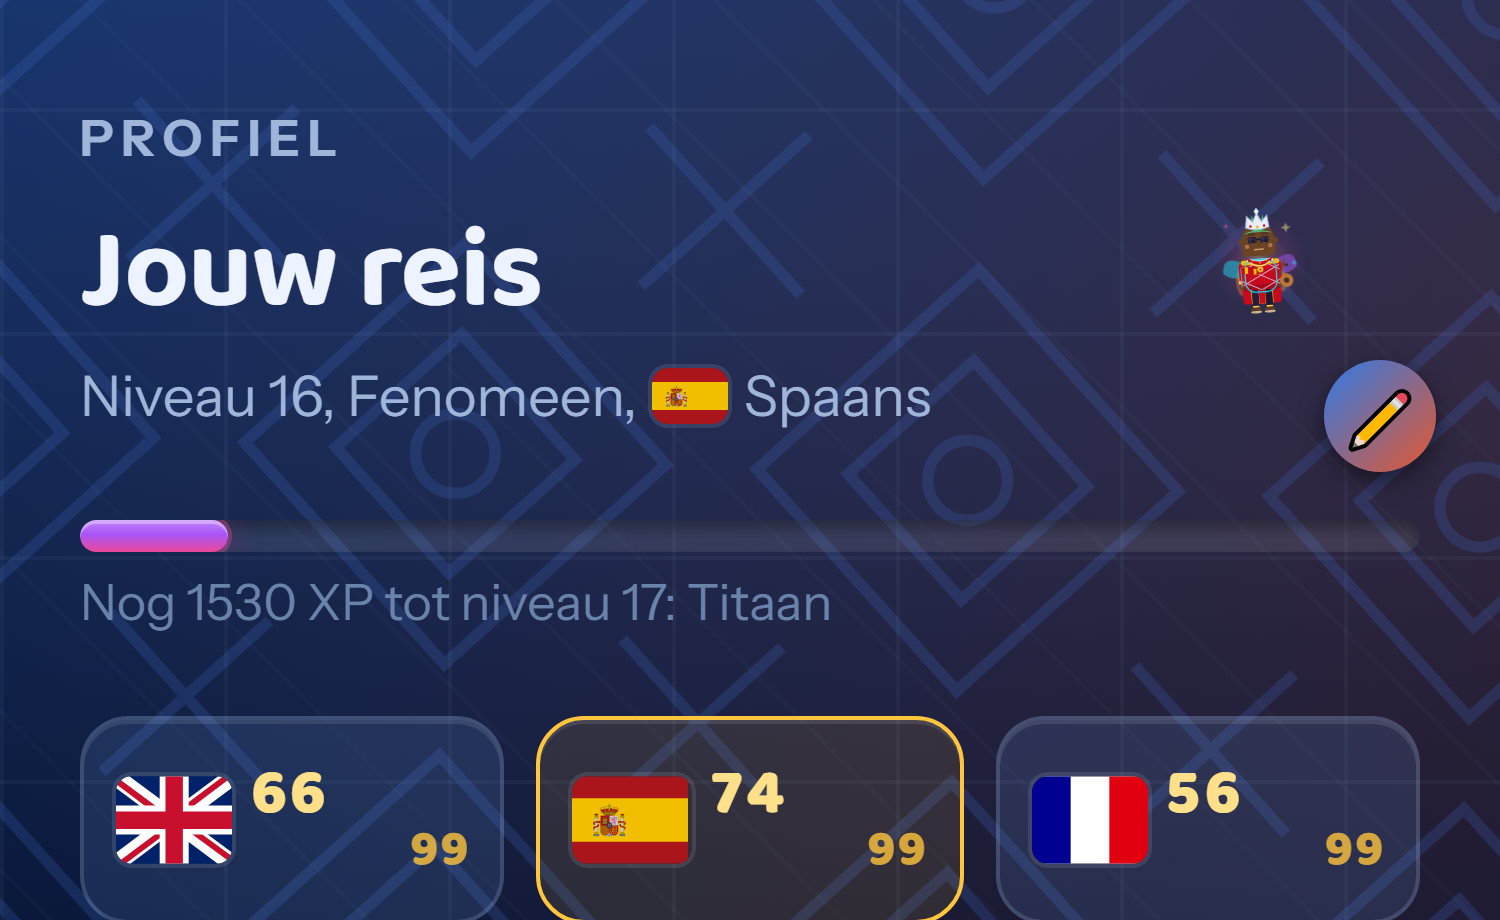
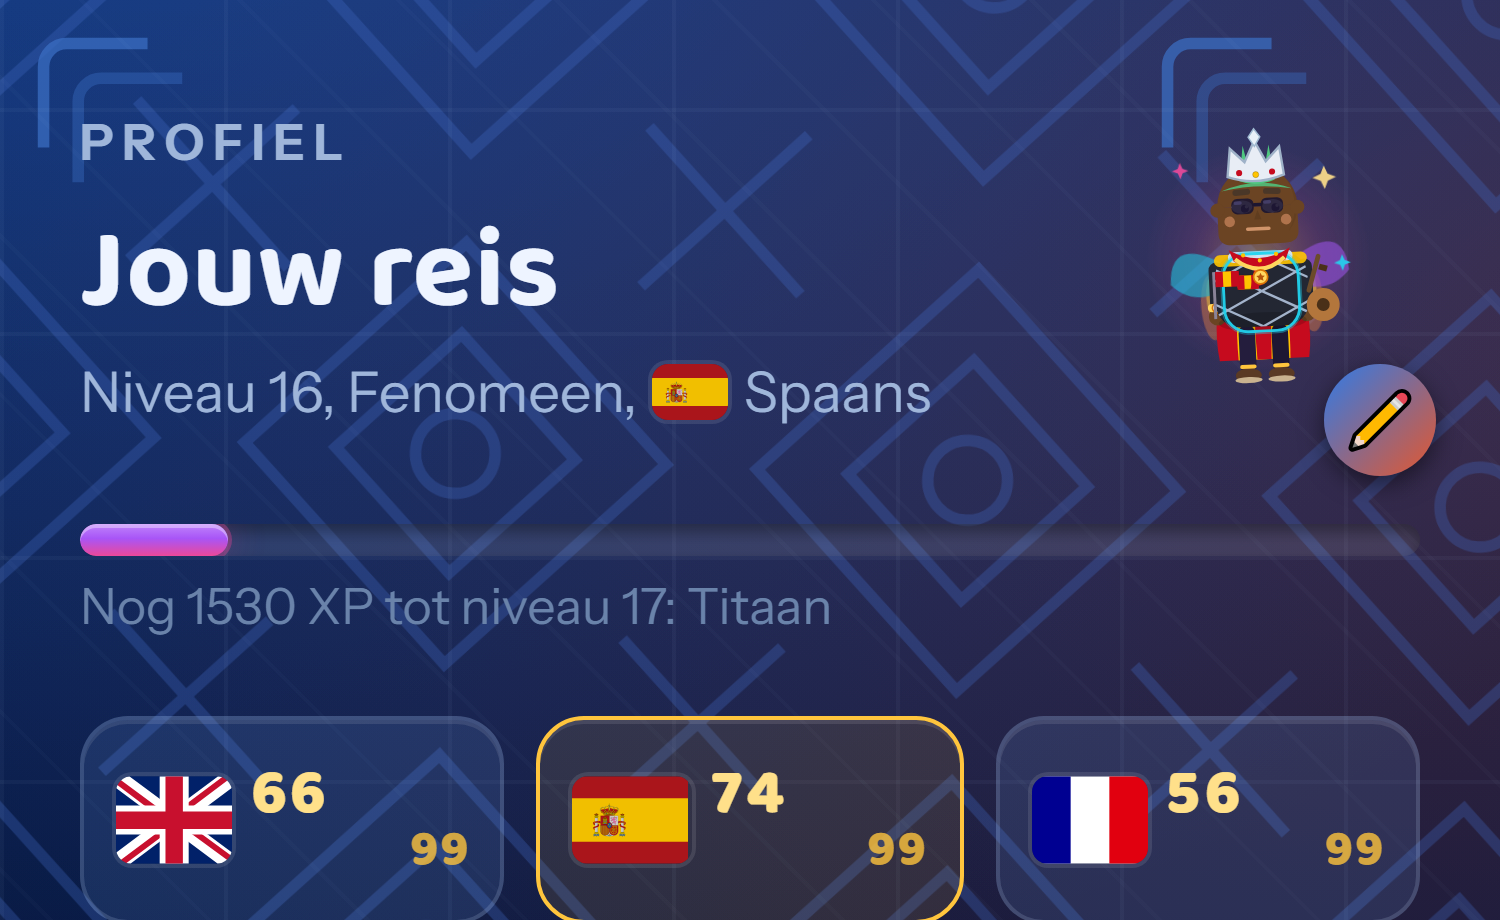
Elk onderdeel van je personage bewezen, en een gebroken belofte gerepareerd
Punt 1a vraagt minstens acht opties per onderdeel, allemaal combineerbaar.
Dat stond er, maar was nooit aangetoond. Nu wel, voor alle tien de
onderdelen: gezichtsvorm 8, ogen 8, wenkbrauwen 8, neus 8, mond 8,
lichaamsbouw 8, haarmodel 10, huidtint 8, haarkleur 12 en kledingkleur 10.
Niet als lijst met namen, maar als tien verschillende tekeningen per
onderdeel, uit de pagina gehaald en met elkaar vergeleken.

En dat legde meteen iets bloot: je gekozen kledingkleur werd vanaf niveau 4
stilletjes overschreven door het tenue van je land. Je koos dus iets in de
kiezer dat na een paar lessen verdween. Nu wint jouw keuze altijd, behalve
als je hem nooit hebt aangeraakt: kleur nul betekent "de kleur van mijn
land". De wereld houdt zijn eigen gezicht via de stof, de kraag en het
accent, dus er gaat niets verloren.

De audit meet er nu ook bij of tekst uit zijn vak breekt. Punt 5 vraagt dat
tekst die in een andere taal langer wordt niet stukloopt, en dat gebeurt niet
op een woord maar op een vak dat te krap is gemaakt. Op alle 96 combinaties:
niets breekt uit.

Twee dingen die mijn eigen proef eerst verkeerd mat: huidtint en
kledingkleur werden zonder kleur vergeleken, en dan lijken acht tinten
natuurlijk op elkaar. Bij een vorm is kleur ruis, bij een kleur is hij het
onderwerp.

diff --git a/scripts/audit.js b/scripts/audit.js
@@ -117,6 +117,41 @@ window.__auditFluent = async function auditFluent() {
     return { aantal: n, soorten: [...namen].slice(0, 6) }
   }
 
+  /**
+   * Tekst die buiten zijn vak breekt.
+   *
+   * Punt 5 zegt: geen tekst die in een andere taal langer wordt en dan breekt.
+   * Dat gebeurt niet op een woord maar op een vak dat te krap is gemaakt voor
+   * de Nederlandse tekst en dus geen ruimte overhoudt. Hier wordt gemeten of
+   * de inhoud breder is dan het vak dat hem moet dragen.
+   *
+   * Stroken die je bewust met je duim veegt tellen niet mee: die horen breder
+   * te zijn dan het scherm.
+   */
+  function tekstBreekt() {
+    const uit = []
+    document.querySelectorAll('body *').forEach((e) => {
+      const t = (e.textContent || '').trim()
+      if (!t || e.children.length > 0) return
+      const cs = getComputedStyle(e)
+      if (cs.display === 'none' || cs.visibility === 'hidden') return
+      if (cs.overflowX === 'auto' || cs.overflowX === 'scroll') return
+      // een voorouder die bewust veegt telt ook niet
+      let n = e.parentElement
+      let veegt = false
+      while (n && n !== el) {
+        const o = getComputedStyle(n)
+        if (o.overflowX === 'auto' || o.overflowX === 'scroll') veegt = true
+        n = n.parentElement
+      }
+      if (veegt) return
+      if (e.scrollWidth > e.clientWidth + 2 && e.clientWidth > 0) {
+        uit.push({ t: t.slice(0, 24), vak: e.clientWidth, inhoud: e.scrollWidth })
+      }
+    })
+    return uit
+  }
+
   function echteHorizontaleScroll() {
     const voor = window.scrollX
     window.scrollTo(600, window.scrollY)
@@ -153,6 +188,7 @@ window.__auditFluent = async function auditFluent() {
     oneindigeAnimaties: oneindigeAnimaties(),
     horizontaalScroll: echteHorizontaleScroll(),
     middenstreepjes: middenstreepjes(),
+    tekstBreekt: tekstBreekt(),
   }
 }
 'audit geladen'

diff --git a/src/components/Avatar.tsx b/src/components/Avatar.tsx
@@ -315,7 +315,14 @@ export function Avatar({
   const cosmic = level >= 19
   const hasHalo = level >= 20
 
-  const shirtFill = hasOutfit ? s.shirt : OUTFIT_COLORS[p.outfit]
+  /* Je gekozen kledingkleur werd vanaf niveau 4 stilletjes overschreven door
+     het tenue van je land. Je koos dus iets in de kiezer dat na een paar
+     lessen verdween, en dat is een gebroken belofte.
+     Nu wint jouw keuze altijd, behalve als je hem nooit hebt aangeraakt: kleur
+     nul betekent "de kleur van mijn land". De wereld houdt zijn eigen gezicht
+     via de stof, de kraag en het accent, dus er gaat niets verloren. */
+  const eigenKleur = (p.outfit ?? 0) > 0
+  const shirtFill = hasOutfit && !eigenKleur ? s.shirt : OUTFIT_COLORS[p.outfit]
 
   return (
     <motion.svg
